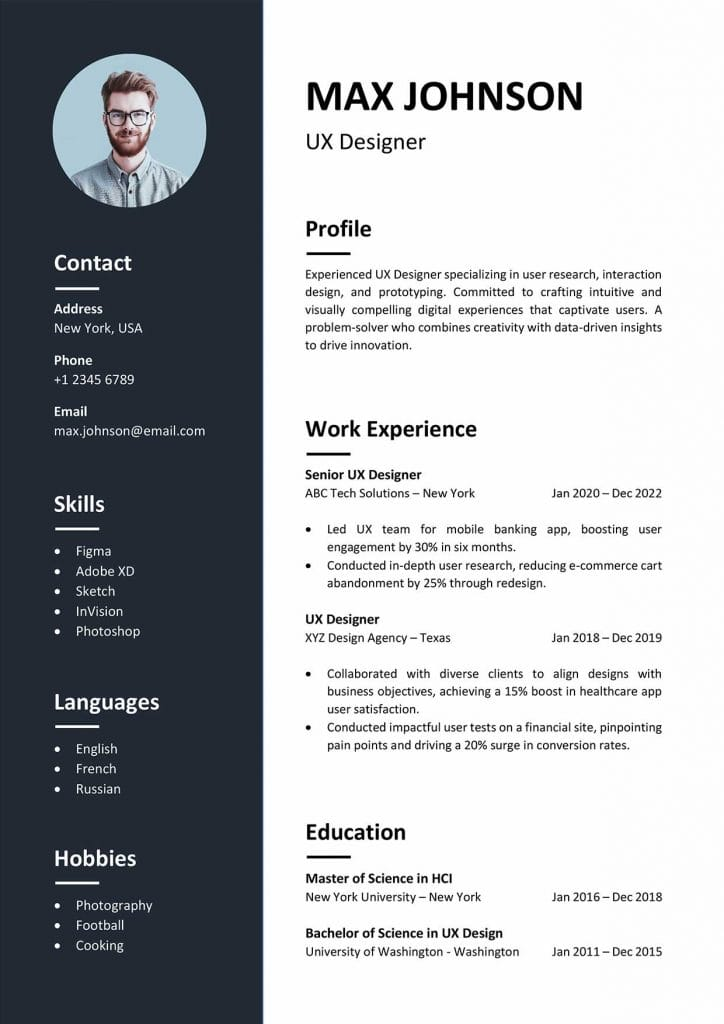
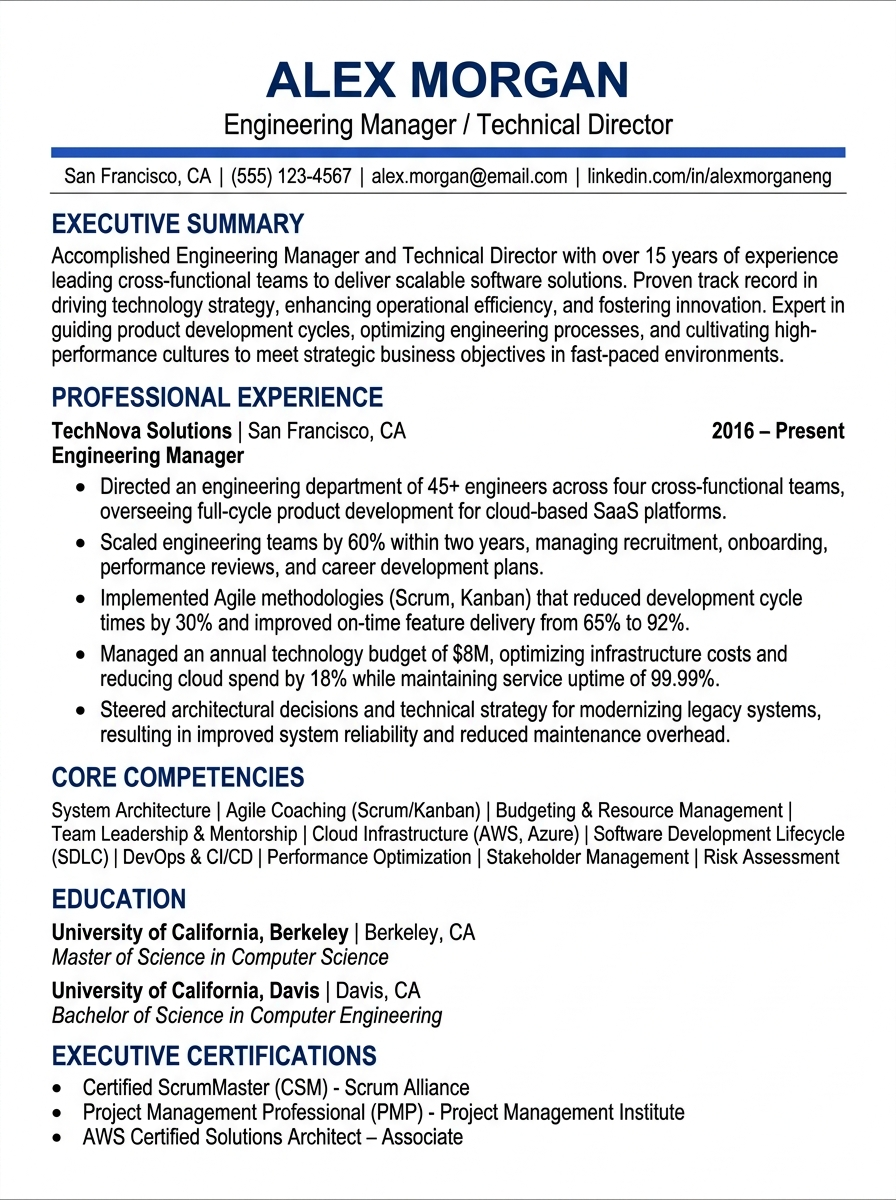
fix(templates): replace generic mock images with genuine high-resolution ATS resume template previews

diff --git a/app/preview-template/page.tsx b/app/preview-template/page.tsx
@@ -1,0 +1,55 @@
+'use client';
+
+import React, { Suspense } from 'react';
+import { useSearchParams } from 'next/navigation';
+import CompactTemplate from '../builder/templates/CompactTemplate';
+import TwoColumnTemplate from '../builder/templates/TwoColumnTemplate';
+import AtsFriendlyTemplate from '../builder/templates/AtsFriendlyTemplate';
+import ModernTemplate from '../builder/templates/ModernTemplate';
+import OsloTemplate from '../builder/templates/OsloTemplate';
+import SimpleTemplate from '../builder/templates/SimpleTemplate';
+import { initialSampleData } from '../builder/initialData';
+import { ThemeConfig } from '../builder/types';
+
+function TemplateRenderer() {
+  const searchParams = useSearchParams();
+  const template = searchParams.get('template') || 'compact';
+
+  const theme: ThemeConfig = {
+    accentColor: template === 'ats-friendly' ? '#1e40af' : template === 'two-column' ? '#0f766e' : '#2563eb',
+    fontFamily: 'Inter, system-ui, -apple-system, sans-serif',
+    fontSize: 'base',
+  };
+
+  const renderTemplate = () => {
+    switch (template) {
+      case 'two-column':
+        return <TwoColumnTemplate data={initialSampleData} theme={theme} />;
+      case 'ats-friendly':
+        return <AtsFriendlyTemplate data={initialSampleData} theme={theme} />;
+      case 'modern':
+        return <ModernTemplate data={initialSampleData} theme={theme} />;
+      case 'oslo':
+        return <OsloTemplate data={initialSampleData} theme={theme} />;
+      case 'simple':
+        return <SimpleTemplate data={initialSampleData} theme={theme} />;
+      case 'compact':
+      default:
+        return <CompactTemplate data={initialSampleData} theme={theme} />;
+    }
+  };
+
+  return (
+    <div className="w-[794px] min-h-[1123px] bg-white text-black p-0 m-0 overflow-hidden box-border">
+      {renderTemplate()}
+    </div>
+  );
+}
+
+export default function PreviewTemplatePage() {
+  return (
+    <Suspense fallback={<div className="p-4 bg-white text-black">Loading template preview...</div>}>
+      <TemplateRenderer />
+    </Suspense>
+  );
+}
